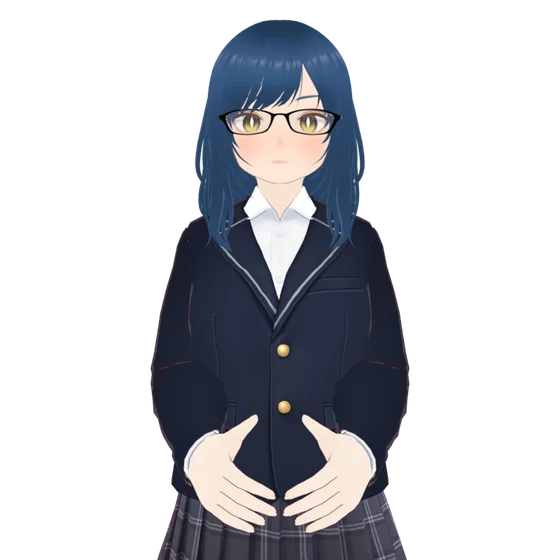
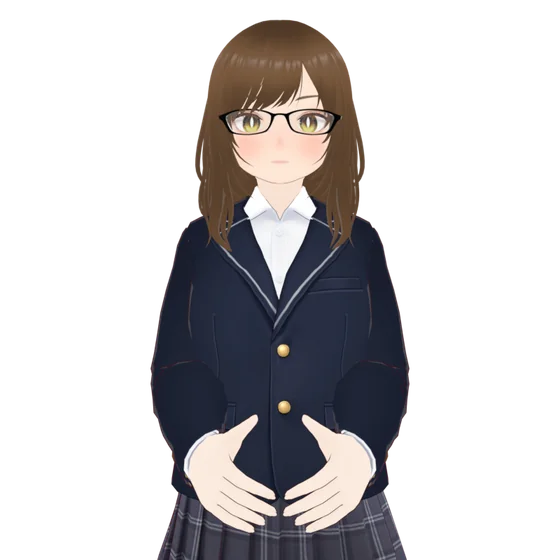
Signer step 4 (part 6): SILA removed, brown hair
- SILA removed: no dictionary entry, quick reply or clip any more. Quick replies are
  Terima kasih, Ya, Tidak, Saya, Nama.
- The avatar's hair and eyebrows are brown (hair_colour in sign_pose.py swaps in
  recoloured copies of their textures; the originals are kept). All clips re-rendered.

Changed region(s): [[0.3339, 0.0304, 0.6679, 0.4554]]

diff --git a/test/sign_translator_test.dart b/test/sign_translator_test.dart
@@ -31,8 +31,8 @@ void main() {
   });
 
   test('English speech uses the same signs', () {
-    expect(labels('Thank you, please.'), ['TERIMA KASIH', 'SILA']);
-    expect(labels('Please wait'), ['SILA', 'W·A·I·T'], reason: 'no sign for "wait": spelled');
+    expect(labels('Thank you, my name.'), ['TERIMA KASIH', 'SAYA', 'NAMA']);
+    expect(labels('Please wait'), ['P·L·E·A·S·E', 'W·A·I·T'], reason: 'no sign for these words: spelled');
     expect(labels('I understand'), ['SAYA', 'FAHAM']);
   });
 

diff --git a/lib/signer/bim_signs.dart b/lib/signer/bim_signs.dart
@@ -20,7 +20,6 @@ const kBimSigns = <BimSign>[
   BimSign('nama', malay: ['nama'], english: ['name']),
   BimSign('terima_kasih', malay: ['terima kasih'], english: ['thank you', 'thanks']),
   // Quick replies in Hearing mode
-  BimSign('sila', malay: ['sila'], english: ['please']),
   BimSign('ya', malay: ['ya'], english: ['yes']),
   BimSign('tidak', malay: ['tidak', 'tak'], english: ['no', 'not']),
   // Everyday words

diff --git a/lib/screens/hearing_screen.dart b/lib/screens/hearing_screen.dart
@@ -27,7 +27,6 @@ class HearingScreen extends StatefulWidget {
     ('Terima kasih', 'Thank you'),
     ('Ya', 'Yes'),
     ('Tidak', 'No'),
-    ('Sila', 'Please'),
     ('Saya', 'Me'),
     ('Nama', 'Name'),
   ];

diff --git a/tools/blender/sign_pose.py b/tools/blender/sign_pose.py
@@ -322,6 +322,50 @@ def slim_sleeves(body='Body', cuffs=(('N00_007_01_Tops_01_CLOTH', 0.66), ('N00_0
     return key
 
 
+def hair_colour(images=('_20', '_21', '_07'), hue=0.075, saturation=0.85, value=0.92, restore=False):
+    """Recolours the hair: for each texture in [images] (this model: _20 back hair, _21 hair, _07
+    eyebrows) a copy "<name> brown" gets every pixel's colour turned to [hue] (0.075 = warm brown),
+    with its saturation and brightness scaled (shading and highlights stay), and replaces the
+    original in every material. The originals are kept: restore=True puts them back."""
+    import numpy as np
+    swap = {}
+    for name in images:
+        orig = bpy.data.images[name]
+        orig.use_fake_user = True  # kept in the .blend while unused
+        copy = bpy.data.images.get(name + ' brown')
+        if restore:
+            if copy:
+                swap[copy] = orig
+            continue
+        px = np.empty(len(orig.pixels), dtype=np.float32)
+        orig.pixels.foreach_get(px)
+        px = px.reshape(-1, 4)
+        v = px[:, :3].max(axis=1)
+        s = (v - px[:, :3].min(axis=1)) / np.maximum(v, 1e-6) * saturation
+        v = v * value
+        low = v * (1 - s)
+        # hue between red (0) and yellow (1/6): red is the brightest channel, blue the darkest
+        px[:, 0], px[:, 1], px[:, 2] = v, low + (v - low) * hue * 6, low
+        if copy is None:
+            copy = bpy.data.images.new(name + ' brown', *orig.size, alpha=True)
+            copy.colorspace_settings.name = orig.colorspace_settings.name
+        copy.pixels.foreach_set(px.ravel())
+        copy.pack()
+        swap[orig] = copy
+    for m in bpy.data.materials:
+        for n in (m.node_tree.nodes if m.node_tree else ()):
+            if n.type == 'TEX_IMAGE' and n.image in swap:
+                n.image = swap[n.image]
+        ext = getattr(m, 'vrm_addon_extension', None)
+        if ext:  # the VRM add-on keeps its own texture links (it rebuilds the nodes from them)
+            mtoon = ext.mtoon1
+            for tex in (mtoon.pbr_metallic_roughness.base_color_texture,
+                        mtoon.extensions.vrmc_materials_mtoon.shade_multiply_texture):
+                if tex.index.source in swap:
+                    tex.index.source = swap[tex.index.source]
+    return sorted(i.name for i in swap.values())
+
+
 FACE = 'Face'
 
 

diff --git a/README.md b/README.md
@@ -169,14 +169,16 @@ The hearing person's words will be shown by a BIM signer avatar, next to the tex
   facial expression (TERIMA KASIH: a small smile); other signs keep a neutral face. The
   character's very wide jacket cuffs hid the hand whenever the wrist bent (SAYA pointing at the
   chest), so the sleeves are slimmed to end at the wrist with a shape key (`slim_sleeves()`; the
-  model's own mesh is unchanged, and its licence allows changes).
+  model's own mesh is unchanged, and its licence allows changes). The hair and eyebrows are
+  recoloured from blue to brown the same way: `hair_colour()` swaps in brown copies of their
+  textures (shading kept) and keeps the originals.
   1. `tools/blender/render_signs.py` (run inside Blender) renders every `sign:` action to
      `character/renders/<id>/0001.png …`;
   2. `python tools/make_sign_clips.py [id …]` turns those frames into `assets/signs/<id>.webp`
      (560 px). The app picks the new clips up by itself.
 - **Recorded so far:** `rest`, `spell_in`, `spell_out`, `letter_a`, `letter_b`, `terima_kasih`,
-  `saya`, `nama`, `sila`, `ya`, `tidak` (posed from BIM Sign Bank pictures, right hand; NAMA with
-  both hands). So every Hearing quick reply (Terima kasih, Ya, Tidak, Sila, Saya, Nama) is signed.
+  `saya`, `nama`, `ya`, `tidak` (posed from BIM Sign Bank pictures, right hand; NAMA with
+  both hands). So every Hearing quick reply (Terima kasih, Ya, Tidak, Saya, Nama) is signed.
   SAYA and NAMA were then refined from a description of the signs: SAYA = index-finger fist at the
   middle of the chest, one small light touch; NAMA = two H hands at the lower chest, palms in, the
   right hand taps twice across the left hand's fingers (an X). Clips are 560 px; the camera frames the upper
